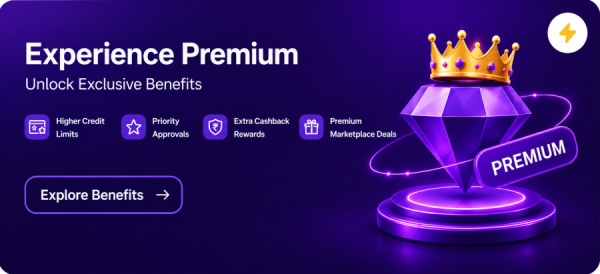
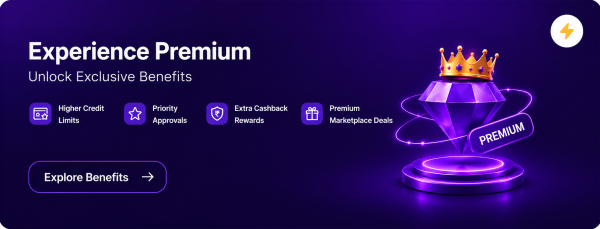
refactor: reduce header and component padding, update text sizes, and refine UI assets across customer dashboard sections

diff --git a/src/app/customer/_components/DashboardHeader.tsx b/src/app/customer/_components/DashboardHeader.tsx
@@ -30,37 +30,34 @@ export default function DashboardHeader({ user, liveCount }: DashboardHeaderProp
     }
   }, [isSearchOpen]);
 
-  const filteredLinks = SEARCH_LINKS.filter(link => 
+  const filteredLinks = SEARCH_LINKS.filter(link =>
     link.name.toLowerCase().includes(searchQuery.toLowerCase())
   );
 
   return (
     <>
-    <header className="flex items-center justify-between px-2 pb-4 bg-white sticky top-0 z-50 pt-[max(env(safe-area-inset-top),16px)]">
+    <header className="flex items-center justify-between px-2 pb-2 bg-white sticky top-0 z-50 pt-[max(env(safe-area-inset-top),10px)]">
 
       {/* Left: User Profile */}
-      <div className="flex items-center gap-3">
+      <div className="flex items-center gap-1">
         <button
-          className="w-12 h-12 rounded-full bg-linear-to-br from-[#8A2BE2] to-[#D946EF] text-white flex items-center justify-center font-normal text-xl shadow-[0_4px_15px_rgba(138,43,226,0.3)] shrink-0"
+          className="w-8 h-8 rounded-full bg-linear-to-br from-[#8A2BE2] to-[#D946EF] text-white flex items-center justify-center font-normal text-base shadow-[0_4px_15px_rgba(138,43,226,0.3)] shrink-0"
           aria-label="User Profile"
         >
           {name.charAt(0).toUpperCase()}
         </button>
         <div className="flex flex-col justify-center">
-          <p className="text-[10px] text-slate-500 font-medium tracking-wide mb-0.5">Welcome back,</p>
-          <h2 className="font-black text-[15px] flex items-center gap-1.5 text-slate-900 uppercase tracking-tight leading-none">
-            {name} <span className="text-[14px]">👋</span>
-            <span className="bg-[#8A2BE2] text-white rounded-full w-3.5 h-3.5 flex items-center justify-center text-[8px] ml-0.5 shadow-sm">
-              <svg viewBox="0 0 24 24" fill="none" stroke="currentColor" strokeWidth="4" strokeLinecap="round" strokeLinejoin="round" className="w-2 h-2"><polyline points="20 6 9 17 4 12"></polyline></svg>
-            </span>
+          <p className="text-[9px] text-slate-500 font-medium tracking-wide mb-0.5">Welcome back,</p>
+          <h2 className="font-black text-[13px] flex items-center gap-1.5 text-slate-900 uppercase tracking-tight leading-none">
+            {name} <span className="text-[12px]">👋</span>
           </h2>
         </div>
       </div>
 
       {/* Middle: Live Count Pill */}
-      <div className="flex items-center gap-1.5 px-3 py-1.5 bg-[#f0fdf4] rounded-full border border-[#dcfce7] ml-2 mr-auto shadow-sm">
-        <svg viewBox="0 0 24 24" fill="none" stroke="currentColor" strokeWidth="3" strokeLinecap="round" strokeLinejoin="round" className="w-3 h-3 text-[#10b981]"><line x1="7" y1="17" x2="17" y2="7"></line><polyline points="7 7 17 7 17 17"></polyline></svg>
-        <span className="font-bold text-[9px] text-[#10b981] tracking-widest">{liveCount?.toLocaleString()} LIVE</span>
+      <div className="flex items-center gap-1 px-2 py-0.5 bg-[#f0fdf4] rounded-full border border-[#dcfce7] ml-2 mr-auto shadow-sm shrink-0">
+        <svg viewBox="0 0 24 24" fill="none" stroke="currentColor" strokeWidth="3" strokeLinecap="round" strokeLinejoin="round" className="w-2.5 h-2.5 text-[#10b981] shrink-0"><line x1="7" y1="17" x2="17" y2="7"></line><polyline points="7 7 17 7 17 17"></polyline></svg>
+        <span className="font-bold text-[8px] text-[#10b981] tracking-widest whitespace-nowrap">{liveCount?.toLocaleString()} LIVE USERS</span>
       </div>
 
       {/* Right: Action Buttons */}
@@ -90,10 +87,10 @@ export default function DashboardHeader({ user, liveCount }: DashboardHeaderProp
           <div className="p-4 border-b border-slate-100 flex items-center gap-3">
             <div className="flex-1 relative">
               <Search className="absolute left-3 top-1/2 -translate-y-1/2 text-slate-400" size={18} />
-              <input 
+              <input
                 ref={searchInputRef}
-                type="text" 
-                placeholder="Search features, payments..." 
+                type="text"
+                placeholder="Search features, payments..."
                 value={searchQuery}
                 onChange={e => setSearchQuery(e.target.value)}
                 className="w-full bg-slate-50 border-none rounded-xl py-3 pl-10 pr-4 text-sm font-semibold text-slate-800 placeholder:text-slate-400 focus:outline-none focus:ring-2 focus:ring-violet-500/20"
@@ -103,7 +100,7 @@ export default function DashboardHeader({ user, liveCount }: DashboardHeaderProp
               <X size={20} />
             </button>
           </div>
-          
+
           <div className="max-h-[60vh] overflow-y-auto p-2">
             {filteredLinks.length > 0 ? (
               <div className="flex flex-col gap-1">

diff --git a/src/app/customer/_components/MarketplaceSection.tsx b/src/app/customer/_components/MarketplaceSection.tsx
@@ -20,7 +20,7 @@ export default function MarketplaceSection() {
 
   return (
     <section className="px-2 py-3">
-      <div className="flex justify-between items-center mb-4">
+      <div className="flex justify-between items-center mb-2">
         <div className="flex items-center gap-2">
           <h2 className="text-[14px] font-black text-slate-800 tracking-tight uppercase">Marketplace</h2>
           <span className="text-[8px] font-bold text-amber-600 bg-amber-50 border border-amber-100 px-1.5 py-0.5 rounded-md uppercase tracking-wider scale-90 origin-left">Coming Soon</span>
@@ -30,28 +30,28 @@ export default function MarketplaceSection() {
         </Link>
       </div>
 
-      <div className="grid grid-cols-5 gap-2 pb-4">
+      <div className="grid grid-cols-5 gap-1 pb-2">
         {categories.map(cat => (
-          <div key={cat.id} className="bg-white border border-slate-100 shadow-[0_4px_12px_rgba(0,0,0,0.03)] rounded-[18px] p-2 flex flex-col items-center">
-            <div className="w-12 h-12 rounded-xl overflow-hidden mb-2 bg-slate-50 flex items-center justify-center border border-slate-100/50 shrink-0">
+          <div key={cat.id} className="bg-white border border-slate-100 shadow-[0_4px_12px_rgba(0,0,0,0.03)] rounded-[14px] p-1 flex flex-col items-center">
+            <div className="w-11 h-11 rounded-[10px] overflow-hidden mb-1 bg-slate-50 flex items-center justify-center border border-slate-100/50 shrink-0">
               <img src={cat.imageSrc} alt={cat.name} className="w-full h-full object-cover mix-blend-multiply"
                 onError={(e) => { e.currentTarget.style.display = 'none'; }} />
             </div>
-            <h4 className="text-[9px] font-black text-slate-700 text-center leading-tight mb-1.5 tracking-tight w-full truncate">{cat.name}</h4>
-            <p className="text-[8px] font-bold text-violet-600 tracking-wider text-center bg-violet-50 px-1 py-0.5 rounded w-full truncate">{cat.offer}</p>
+            <h4 className="text-[8.5px] font-black text-slate-700 text-center leading-tight mb-1 tracking-tighter whitespace-nowrap">{cat.name}</h4>
+            <p className="text-[7.5px] font-bold text-violet-600 tracking-tight text-center bg-violet-50 px-1 py-0.5 rounded whitespace-nowrap">{cat.offer}</p>
           </div>
         ))}
       </div>
 
-      <div className="grid grid-cols-2 gap-x-4 gap-y-3 p-3 mt-2 w-full rounded-xl bg-slate-50/50 border border-slate-100 shadow-[inset_0_2px_4px_rgba(0,0,0,0.02)]">
+      <div className="grid grid-cols-4 gap-2 px-3 py-1 w-full rounded-xl bg-slate-50/50 border border-slate-100 shadow-[inset_0_2px_4px_rgba(0,0,0,0.02)]">
         {features.map((feat) => (
-          <div key={feat.id} className="flex items-center gap-2.5 min-w-0">
-            <div className="w-7 h-7 rounded-lg bg-white flex items-center justify-center shrink-0 shadow-[0_2px_8px_rgba(0,0,0,0.04)] border border-slate-100">
+          <div key={feat.id} className="flex flex-col items-center gap-1.5 text-center min-w-0">
+            <div className="w-8 h-8 rounded-xl bg-white flex items-center justify-center shrink-0 shadow-[0_2px_8px_rgba(0,0,0,0.04)] border border-slate-100">
               {feat.icon}
             </div>
-            <div className="flex flex-col min-w-0">
-              <h5 className="text-[10px] font-black text-slate-800 leading-tight mb-0.5">{feat.title}</h5>
-              <p className="text-[8px] font-bold text-slate-500 leading-none">{feat.desc}</p>
+            <div className="flex flex-col min-w-0 items-center w-full">
+              <h5 className="text-[8px] font-black text-slate-800 leading-tight mb-0.5 w-full truncate">{feat.title}</h5>
+              <p className="text-[7px] font-bold text-slate-500 leading-none w-full truncate">{feat.desc}</p>
             </div>
           </div>
         ))}

diff --git a/src/app/customer/_components/MoreWaysToEarnSection.tsx b/src/app/customer/_components/MoreWaysToEarnSection.tsx
@@ -12,7 +12,7 @@ export default function MoreWaysToEarnSection() {
 
   return (
     <section className="px-2 py-3">
-      <div className="flex justify-between items-center mb-3">
+      <div className="flex justify-between items-center mb-2">
         <div className="flex items-center gap-2">
           <h2 className="text-[12px] font-black text-slate-800 tracking-tight">More Ways to Earn</h2>
           <span className="text-[8px] font-bold text-amber-600 bg-amber-50 border border-amber-100 px-1.5 py-0.5 rounded-md uppercase tracking-wider scale-90 origin-left">Coming Soon</span>
@@ -28,22 +28,19 @@ export default function MoreWaysToEarnSection() {
             key={way.id} 
             href={way.href} 
             onClick={way.comingSoon ? (e) => e.preventDefault() : undefined}
-            className={`bg-white border border-slate-100/80 shadow-[0_4px_12px_rgba(0,0,0,0.015)] rounded-[12px] p-2 flex items-center justify-between h-[52px] group transition-all relative overflow-hidden ${
+            className={`bg-white border border-slate-100/80 shadow-[0_4px_12px_rgba(0,0,0,0.015)] rounded-[12px] p-1.5 flex flex-col items-center justify-center min-h-[72px] group transition-all relative overflow-hidden ${
               way.comingSoon ? 'opacity-50 cursor-not-allowed' : 'active:scale-95'
             }`}
           >
-            <div className="flex flex-col justify-center min-w-0 pr-1 z-10">
-              <div className="flex items-center gap-1">
-                <h4 className="text-[8px] font-black text-slate-700 tracking-tight leading-tight truncate">{way.title}</h4>
-                {way.comingSoon && (
-                  <span className="text-[5px] font-black bg-amber-50 text-amber-600 border border-amber-100 px-0.5 rounded uppercase leading-none shrink-0 scale-90">Soon</span>
-                )}
-              </div>
-              <p className="text-[6px] font-bold text-slate-400 mt-0.5 leading-none">{way.sub}</p>
-              <h3 className="text-[11px] font-black text-violet-600 tracking-tight leading-none mt-1">{way.value}</h3>
-            </div>
-            <div className="w-[30px] h-[30px] shrink-0 flex items-center justify-center group-hover:scale-110 transition-transform duration-300 z-10">
+            {way.comingSoon && (
+              <div className="absolute top-1.5 right-1.5 text-[6px] font-black bg-amber-50 text-amber-600 border border-amber-100 px-1 py-0.5 rounded uppercase leading-none z-20">Soon</div>
+            )}
+            <div className="w-[32px] h-[32px] shrink-0 flex items-center justify-center group-hover:scale-110 transition-transform duration-300 z-10 mb-1">
               <img src={way.image} alt={way.title} className="w-full h-full object-contain" />
+            </div>
+            <div className="flex flex-col items-center justify-center w-full z-10 mt-0.5">
+              <h4 className="text-[9px] font-black text-slate-700 tracking-tight leading-tight whitespace-nowrap mb-0.5">{way.title}</h4>
+              <p className="text-[7px] font-bold text-slate-400 leading-none whitespace-nowrap">{way.sub} <span className="text-[9px] font-black text-violet-600">{way.value}</span></p>
             </div>
           </Link>
         ))}

diff --git a/src/app/customer/_components/HeroDashboard.tsx b/src/app/customer/_components/HeroDashboard.tsx
@@ -1,4 +1,4 @@
-import { ArrowRight, ChevronRight, Info, Shield } from 'lucide-react';
+import { ArrowRight, ChevronRight, Info, PlusIcon, Shield } from 'lucide-react';
 import Link from 'next/link';
 
 interface HeroDashboardProps {
@@ -34,7 +34,7 @@ export default function HeroDashboard({ walletBalance, vaultBalance, isVaultEnab
           </div>
 
           <Link href="/customer/add-money" className="inline-flex items-center gap-1 bg-white text-violet-600 text-[8px] font-black uppercase tracking-wider py-0.5 px-1 rounded-full hover:bg-slate-50 transition-colors shadow-md relative z-10 w-fit mt-auto">
-            View Details <ArrowRight size={10} strokeWidth={3} />
+            <PlusIcon size={10} strokeWidth={3} /> Value
           </Link>
         </div>
       </div>
@@ -43,7 +43,7 @@ export default function HeroDashboard({ walletBalance, vaultBalance, isVaultEnab
       {isVaultEnabled && (
         <div
           className="w-full h-[125px] rounded-[16px] p-2 relative overflow-hidden shadow-[0_10px_30px_rgba(0,0,0,0.06)] border border-slate-100/60 flex flex-col cursor-pointer hover:shadow-lg transition-shadow active:scale-95"
-          style={{ backgroundImage: 'url("/locker_bg.png")', backgroundSize: 'cover', backgroundPosition: 'center' }}
+          style={{ backgroundImage: 'url("/locker_bg.1.png")', backgroundSize: 'cover', backgroundPosition: 'center' }}
           onClick={onVaultClick}
         >
 
@@ -52,20 +52,17 @@ export default function HeroDashboard({ walletBalance, vaultBalance, isVaultEnab
                 <div className="w-3.5 h-3.5 rounded bg-violet-50 text-[#8A2BE2] flex items-center justify-center border border-violet-100 shadow-sm shrink-0">
                   <Shield size={7} strokeWidth={2.5} />
                 </div>
-                <span className="text-[10px] font-black text-slate-800 uppercase tracking-widest leading-tight">VAULT CARD</span>
+                <span className="text-[10px] font-bold text-slate-800 uppercase tracking-widest leading-tight">VAULT CARD</span>
             </div>
 
             <div className="flex flex-col gap-0.5 pb-1 mt-1">
-                <div className="text-[5.5px] font-black text-[#8A2BE2] uppercase w-fit bg-violet-50 px-1.5 py-0.5 rounded-sm">
-                  METAL ASSET
-                </div>
-                <div className="text-[5.5px] font-black text-slate-400 uppercase w-fit px-1.5 py-0.5 rounded-sm">
+                <div className="text-[7px] font-bold text-slate-800 uppercase w-fit px-1.5 py-0.5 rounded-sm">
                   DIGITAL ASSET
                 </div>
             </div>
 
             <div className="mt-auto">
-              <span className="text-[5px] font-bold text-slate-400 uppercase tracking-widest mb-0.5 block">ASSET VALUE</span>
+              <span className="text-[6px] font-bold text-slate-500 uppercase tracking-tighter mb-0.5 block">ASSET VALUE</span>
               <div className="flex items-baseline gap-0.5">
                 <span className="text-[14px] font-black tracking-tight text-slate-800 leading-none truncate">
                   {parseFloat(String(vaultBalance)).toLocaleString('en-IN', { maximumFractionDigits: 2 })}

diff --git a/src/app/customer/_components/QuickActionsGrid.tsx b/src/app/customer/_components/QuickActionsGrid.tsx
@@ -1,7 +1,7 @@
 "use client";
 
-import React, { useState } from 'react';
-import { Scan, Send, Repeat, QrCode, Gift, MoreHorizontal, ChevronUp, MessageSquare, CreditCard } from 'lucide-react';
+import React from 'react';
+import { Scan, Send, Repeat, QrCode, Gift, MessageSquare, CreditCard } from 'lucide-react';
 import Link from 'next/link';
 
 interface QuickActionsGridProps {
@@ -19,8 +19,6 @@ export default function QuickActionsGrid({
   onInboxClick,
   unreadCount = 0,
 }: QuickActionsGridProps) {
-  const [isExpanded, setIsExpanded] = useState(false);
-
   const allActions = [
     { id: 1, label: 'Scan QR', icon: <Scan size={20} strokeWidth={2.5} />, bg: 'bg-linear-to-br from-violet-500 to-indigo-600 shadow-violet-200/50', href: '/customer/pay/?scan=true' },
     { id: 2, label: 'Pay ID', icon: <Send size={20} strokeWidth={2.5} />, bg: 'bg-linear-to-br from-blue-500 to-blue-700 shadow-blue-200/50', href: '/customer/transfer' },
@@ -64,24 +62,15 @@ export default function QuickActionsGrid({
     } as any);
   }
 
-  const toggleAction = isExpanded
-    ? { id: 'toggle', label: 'Less', icon: <ChevronUp size={20} strokeWidth={3} />, bg: 'bg-slate-100 shadow-slate-200/50', color: 'text-slate-600', href: '#', onClick: () => setIsExpanded(false) }
-    : { id: 'toggle', label: 'More', icon: <MoreHorizontal size={20} strokeWidth={3} />, bg: 'bg-slate-100 shadow-slate-200/50', color: 'text-slate-600', href: '#', onClick: () => setIsExpanded(true) };
-
-  const showToggle = allActions.length > 4;
-  const visibleActions = showToggle 
-    ? (isExpanded ? [...allActions, toggleAction] : [...allActions.slice(0, 3), toggleAction])
-    : allActions;
-
   return (
     <section className="px-2 py-2">
-      <div className="bg-white rounded-[24px] p-5 shadow-xl shadow-slate-200/60 border border-slate-100 transition-all duration-300">
-        <div className="gap-y-5 transition-all duration-300 grid grid-cols-4">
-            {visibleActions.map((action: any) => {
+      <div className="bg-white rounded-[24px] py-2 shadow-xl shadow-slate-200/60 border border-slate-100 transition-all duration-300">
+        <div className="grid grid-cols-5 overflow-x-auto snap-x snap-mandatory [&::-webkit-scrollbar]:hidden [-ms-overflow-style:none] [scrollbar-width:none]">
+            {allActions.map((action: any) => {
               const ActionWrapper = action.onClick ? 'button' : Link;
-              const wrapperProps = action.onClick 
-                ? { onClick: action.onClick, className: 'flex flex-col items-center gap-2 group px-1 shrink-0' } 
-                : { href: action.href, className: 'flex flex-col items-center gap-2 group px-1 shrink-0' };
+              const wrapperProps = action.onClick
+                ? { onClick: action.onClick, className: 'flex flex-col items-center gap-2 group shrink-0 snap-start w-16' }
+                : { href: action.href, className: 'flex flex-col items-center gap-2 group shrink-0 snap-start w-16' };
 
               return (
                 <ActionWrapper key={action.id} {...(wrapperProps as any)}>

diff --git a/src/app/customer/page.tsx b/src/app/customer/page.tsx
@@ -921,23 +921,11 @@ export default function CustomerHome() {
 
       {/* Alternate Number Verification Banner */}
       {!activeUser?.is_debug && !activeUser?.has_verified_alternate_number && (
-        <div className="mx-3 mt-4 bg-rose-50 border border-rose-200 rounded-lg p-2 flex items-center justify-between shadow-sm animate-in fade-in slide-in-from-top-4 duration-500">
-          <div className="flex items-center gap-2">
-            <div className="w-7 h-7 rounded-full bg-rose-100 flex items-center justify-center text-rose-600 shrink-0">
-              <Smartphone size={14} strokeWidth={2.5} />
-            </div>
-            <div className="flex flex-col justify-center">
-              <h4 className="text-[11px] font-black text-rose-600 uppercase tracking-tight leading-tight">
-                Verify Number
-              </h4>
-              <p className="text-[9px] font-bold text-slate-500 leading-tight">
-                Verify alternate number
-              </p>
-            </div>
-          </div>
-          <Link href="/customer/profile">
-            <button className="bg-rose-500 text-white px-2.5 py-1 rounded-md text-[9px] font-black uppercase tracking-widest flex items-center gap-1 hover:bg-rose-600 transition-all active:scale-95 shadow-sm shadow-rose-500/20">
-              Verify <ArrowRight size={12} />
+        <div className="mx-2 mt-2 animate-in fade-in slide-in-from-top-4 duration-500">
+          <Link href="/customer/profile" className="block w-full">
+            <button className="bg-rose-500 w-full text-white px-2.5 py-1 rounded-md text-[9px] font-black uppercase tracking-widest flex items-center justify-between hover:bg-rose-600 transition-all active:scale-95 shadow-sm shadow-rose-500/20">
+              <span>Verify Alternate Number</span>
+              <ArrowRight size={12} />
             </button>
           </Link>
         </div>
@@ -994,7 +982,7 @@ export default function CustomerHome() {
       />
 
       {isVaultMaximized && (
-        <div 
+        <div
             className="fixed inset-0 z-[100] flex flex-col items-center justify-center bg-black/60 backdrop-blur-xl px-4"
             onClick={() => setIsVaultMaximized(false)}
         >

diff --git a/src/app/customer/_components/SuperSaverZoneCard.tsx b/src/app/customer/_components/SuperSaverZoneCard.tsx
@@ -4,8 +4,8 @@ import Link from 'next/link';
 
 export default function SuperSaverZoneCard() {
   return (
-    <section className="px-2 py-3 mb-6">
-      <div className="relative rounded-[24px] p-4 flex items-center justify-between overflow-hidden shadow-[0_10px_30px_rgba(138,43,226,0.15)] border border-violet-100 bg-linear-to-r from-violet-100 to-indigo-50">
+    <section className="px-2 mb-6">
+      <div className="relative rounded-[24px] p-4 flex items-center justify-between overflow-hidden shadow-[0_10px_30px_rgba(138,43,226,0.15)] border border-violet-100 bg-linear-to-r from-violet-100 to-indigo-50 ">
 
         <div className="relative z-10 w-[75%]">
           <div className="flex items-center gap-1.5 mb-1.5">

diff --git a/src/app/customer/_components/BankOffersGrid.tsx b/src/app/customer/_components/BankOffersGrid.tsx
@@ -60,7 +60,7 @@ export default function BankOffersGrid({ isBankVerified = false }: BankOffersGri
             style={{
               aspectRatio: '700/230',
               backgroundImage: 'url("/card-image/cd-2.1.png")',
-              backgroundSize: '100% 100%',
+              backgroundSize: '100% 110%',
               backgroundPosition: 'center',
               backgroundRepeat: 'no-repeat'
             }}
